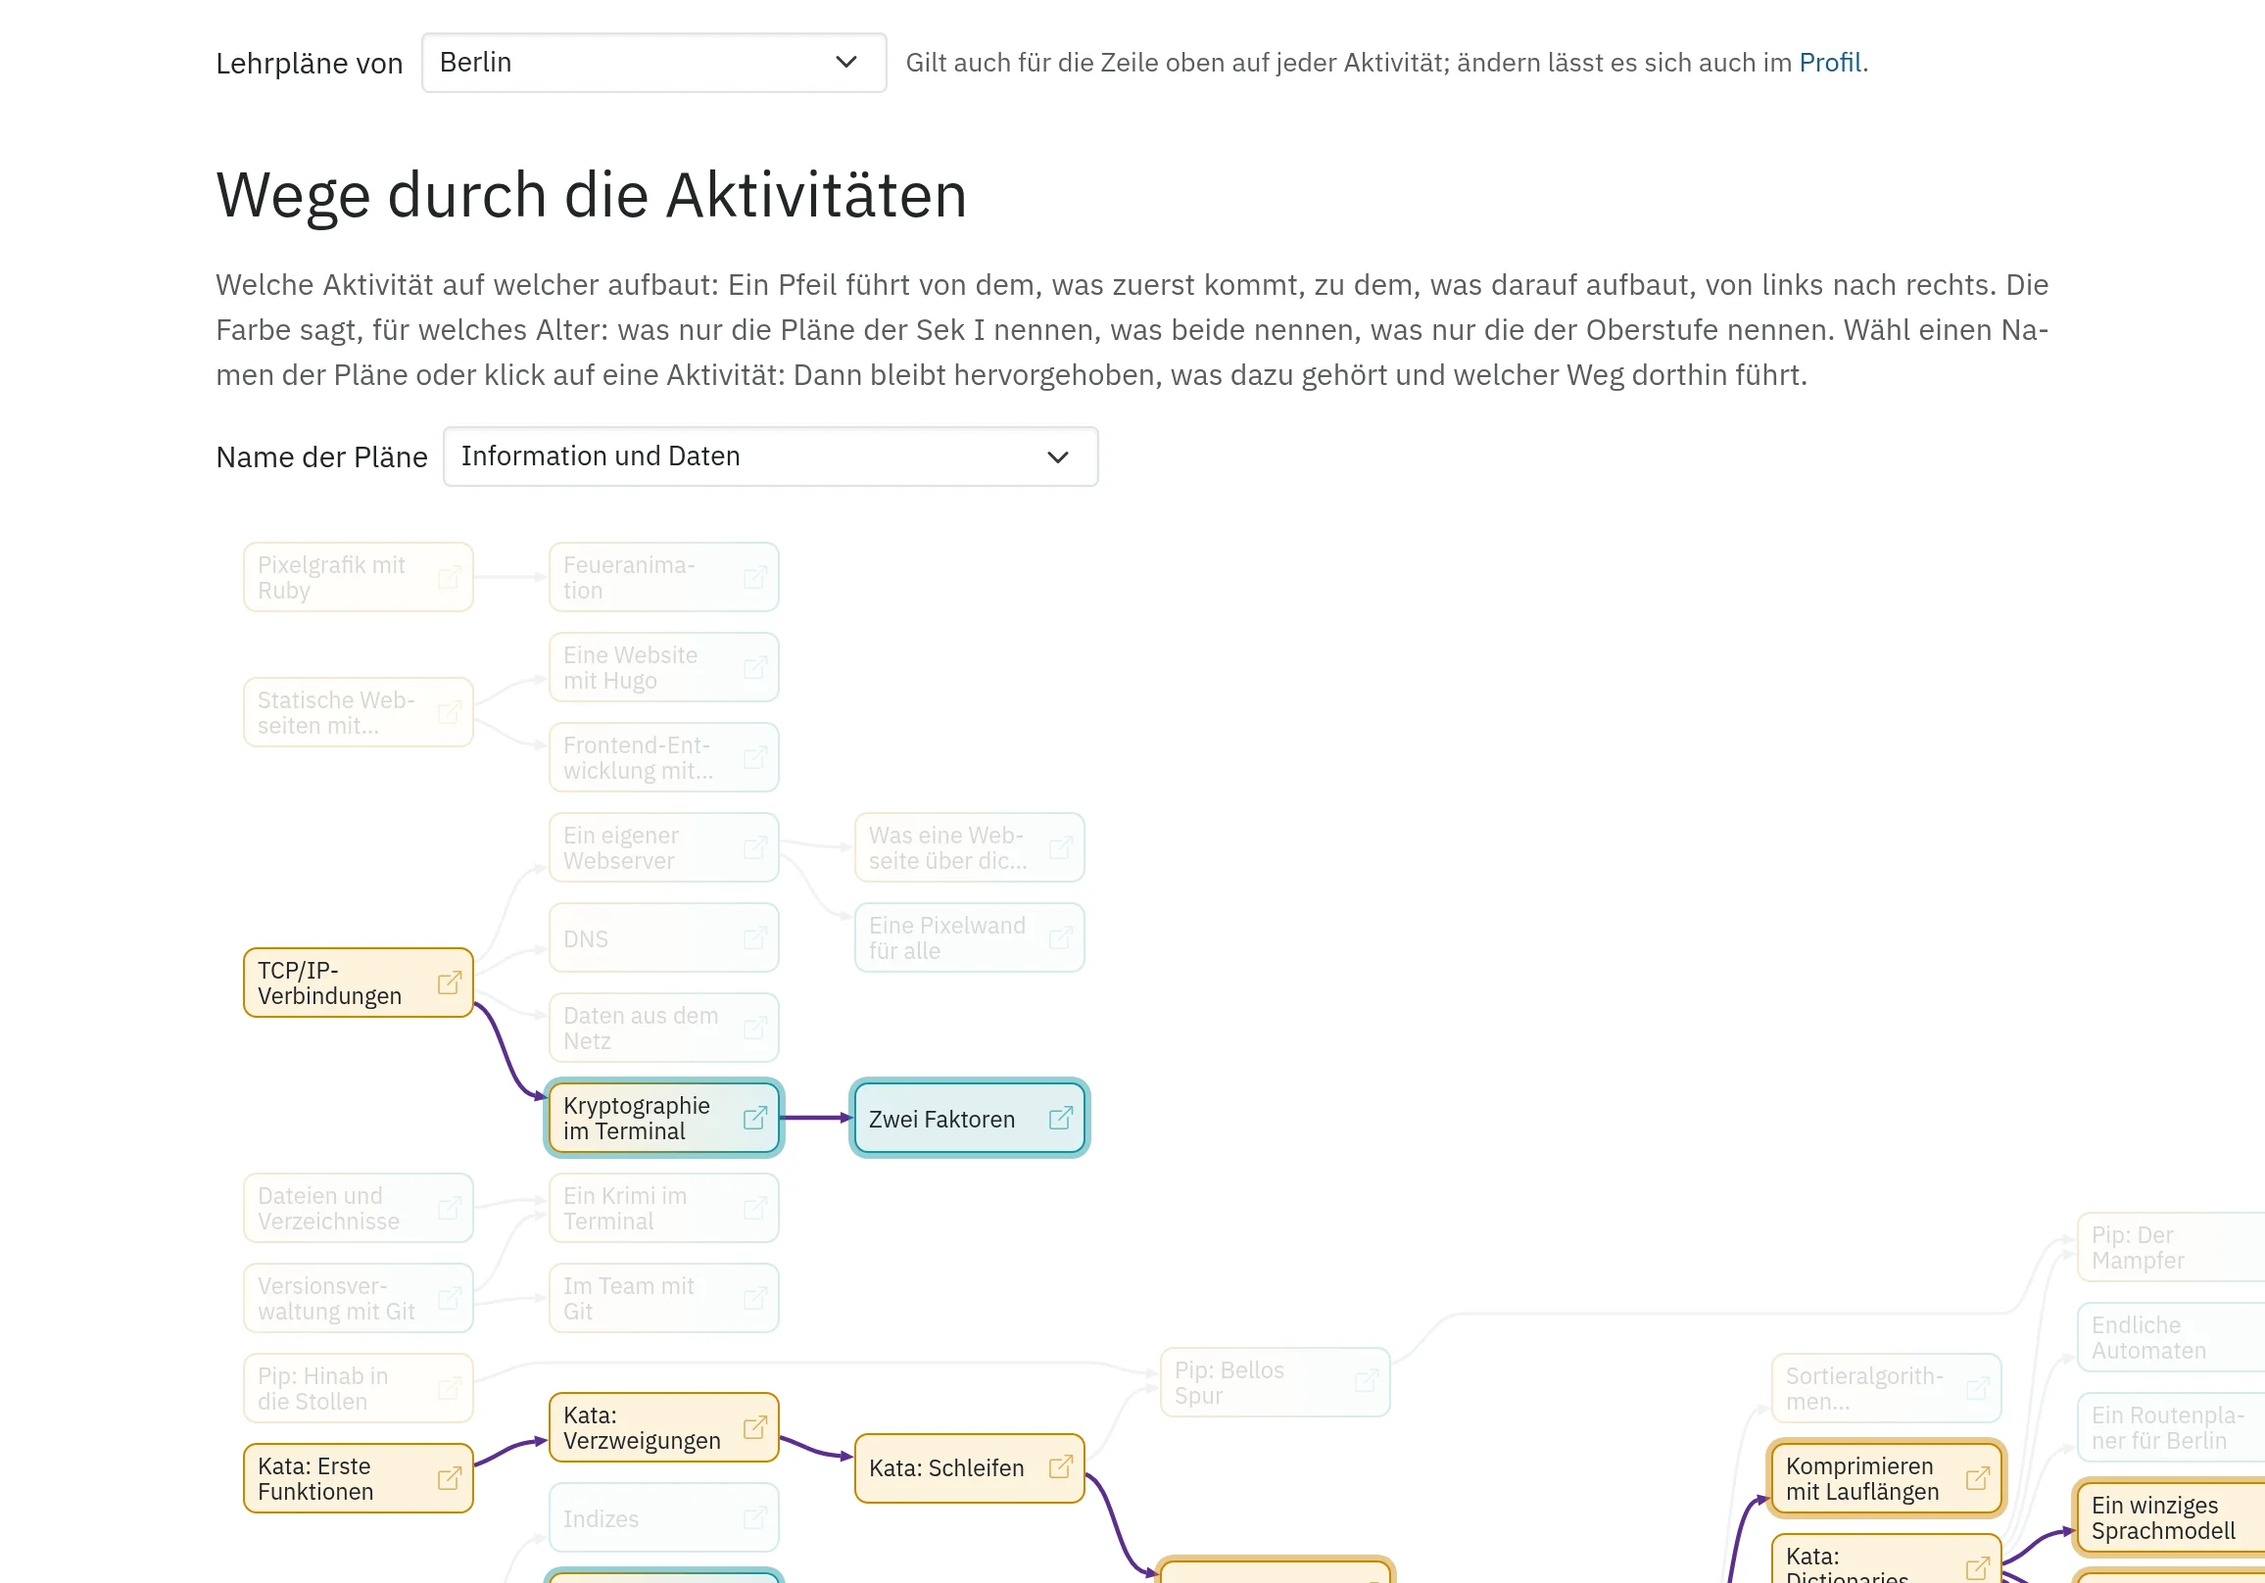
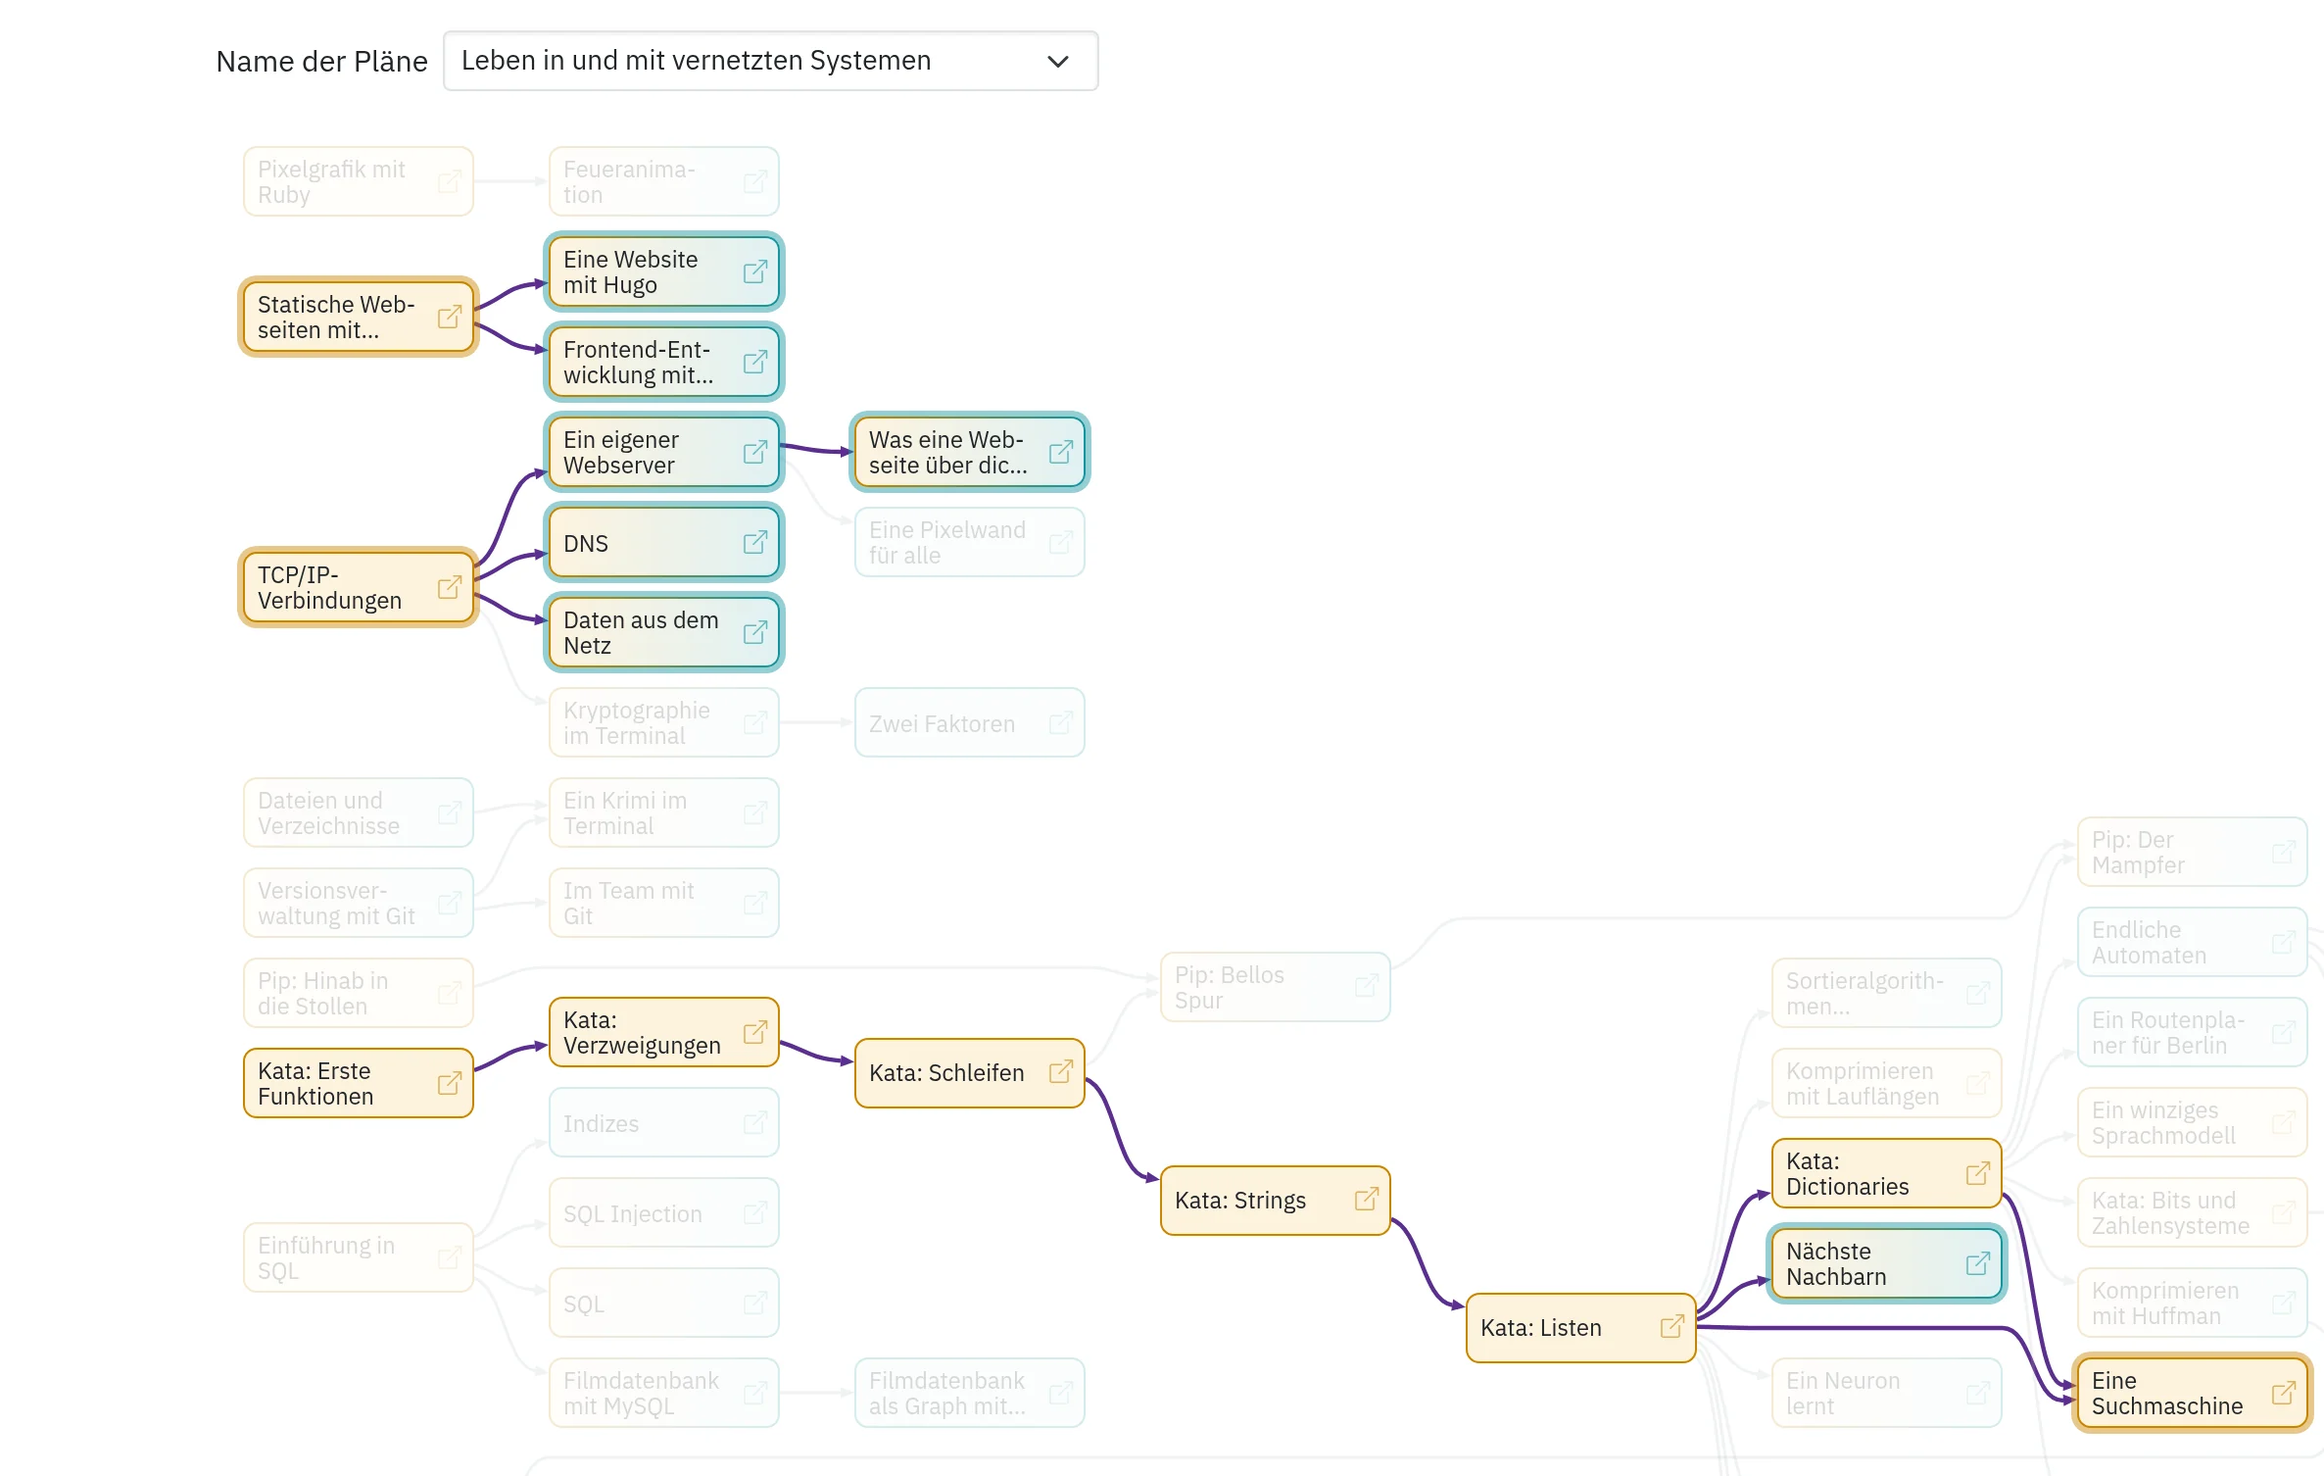
Lehrplan: no menu entry (linked from the class page and the teacher guide); »Im Bild oben zeigen« centres the highlighted boxes in the window and scrolls the picture sideways to them; the guide's picture shows »Leben in und mit vernetzten Systemen«, cropped to its boxes; the guide's and the tour's p

diff --git a/e2e/tests/teacher-guide.pictures.ts b/e2e/tests/teacher-guide.pictures.ts
@@ -177,12 +177,13 @@ async function shoot(page: Page, name: string, anchor: string | null, out: strin
 // A picture of a part of the page: the box around the elements (selectors),
 // with some room above and below, the whole page width of the content; for
 // what one sentence of the guide is about rather than a whole screen.
-async function shootBox(page: Page, name: string, selectors: string[], out: string, room = { top: 16, bottom: 16 }, maxHeight = 1100) {
-  const box = await page.evaluate(([sels, r, max]) => {
-    const rects = (sels as string[]).map((s) => {
-      const e = document.querySelector(s);
-      if (!e) throw new Error('missing ' + s);
-      return e.getBoundingClientRect();
+// every: each selector counts with all its matches, not only the first
+async function shootBox(page: Page, name: string, selectors: string[], out: string, room = { top: 16, bottom: 16 }, maxHeight = 1100, every = false) {
+  const box = await page.evaluate(([sels, r, max, all]) => {
+    const rects = (sels as string[]).flatMap((s) => {
+      const found = all ? Array.from(document.querySelectorAll(s)) : [document.querySelector(s)].filter(Boolean);
+      if (!found.length) throw new Error('missing ' + s);
+      return found.map((e) => (e as Element).getBoundingClientRect());
     });
     const main = (document.querySelector('.container, main') || document.body).getBoundingClientRect();
     const top = Math.min(...rects.map((b) => b.top)) + window.scrollY - (r as any).top;
@@ -190,7 +191,7 @@ async function shootBox(page: Page, name: string, selectors: string[], out: stri
     const left = Math.max(0, Math.min(main.left, ...rects.map((b) => b.left)) - 8);
     const right = Math.min(document.documentElement.clientWidth, Math.max(main.right, ...rects.map((b) => b.right)) + 8);
     return { x: left, y: Math.max(0, top), width: right - left, height: Math.min(bottom - top, max as number) };
-  }, [selectors, room, maxHeight] as const);
+  }, [selectors, room, maxHeight, every] as const);
   await page.waitForTimeout(300);
   const png = path.join(out, name + '.png');
   await page.screenshot({ path: png, fullPage: true, clip: box });
@@ -364,11 +365,13 @@ test('pictures for the teacher guide', async ({ freshWorkspace: workspace, brows
     // and a level with its plan as a PDF
     await teacher.goto('/lehrplan');
     const topic = teacher.locator('select.cg-topic');
-    const value = await topic.locator('option', { hasText: 'Information und Daten' }).first().getAttribute('value');
+    // a name whose activities stand together in the graph, so that the
+    // picture shows them, not a page of faded boxes
+    const value = await topic.locator('option', { hasText: 'Leben in und mit vernetzten Systemen' }).first().getAttribute('value');
     await topic.selectOption(value!);
     await teacher.waitForTimeout(600);
     await dress(teacher);
-    await shootBox(teacher, 'lehrplan', ['.lp-state', 'select.cg-topic'], out, { top: 16, bottom: 560 });
+    await shootBox(teacher, 'lehrplan', ['select.cg-topic', '.cg-node.cg-hit'], out, { top: 16, bottom: 24 }, 1100, true);
     await dress(teacher);
     await shootBox(teacher, 'lehrplan-pdf', ['h2#sek-i', 'h2#sek-i + p.lp-source'], out, { top: 12, bottom: 12 });
 

diff --git a/src/static/lehrplan.html b/src/static/lehrplan.html
@@ -273,10 +273,27 @@
             if (!event.target.closest('.cg-node')) { select.value = ''; show([], null); }
         });
         // from a name in the list below: up to the picture, the name chosen
+        // and its boxes in the middle of the window (below the bar at the
+        // top), the picture scrolled sideways to them if it is wider
+        function centreHits() {
+            const hits = nodes.filter(function (n) { return n.classList.contains('cg-hit'); });
+            if (!hits.length) { document.getElementById('wege').scrollIntoView({ behavior: 'smooth', block: 'start' }); return; }
+            const boxes = hits.map(function (n) { return n.getBoundingClientRect(); });
+            const top = Math.min.apply(null, boxes.map(function (b) { return b.top; }));
+            const bottom = Math.max.apply(null, boxes.map(function (b) { return b.bottom; }));
+            const left = Math.min.apply(null, boxes.map(function (b) { return b.left; }));
+            const right = Math.max.apply(null, boxes.map(function (b) { return b.right; }));
+            const bar = 80;
+            const room = window.innerHeight - bar;
+            const y = window.scrollY + (bottom - top > room - 40 ? top - bar - 20 : (top + bottom) / 2 - bar - room / 2);
+            window.scrollTo({ top: Math.max(0, y), behavior: 'smooth' });
+            const frame = graph.parentElement.getBoundingClientRect();
+            graph.parentElement.scrollTo({ left: graph.parentElement.scrollLeft + (left + right) / 2 - (frame.left + frame.right) / 2, behavior: 'smooth' });
+        }
         document.querySelectorAll('.lp-graph-show').forEach(function (button) {
             button.addEventListener('click', function () {
                 topic(button.dataset.topic);
-                document.getElementById('wege').scrollIntoView({ behavior: 'smooth', block: 'start' });
+                centreHits();
             });
         });
         // as wide as the window allows right of the text's left edge

diff --git a/src/static/_template.html b/src/static/_template.html
@@ -1157,8 +1157,6 @@ window.addEventListener('load', function() {
                 <a style='#{(@session_user.nil? || (!@session_user[:show_tic80])) ? 'display: none;' : ''}' href="/tic80/" data-menu-module='tic80' class="btn btn-menu" target="_blank"><svg class='bi bi-tic80' width='16' height='16' viewBox='0 0 16 16' fill='currentColor' aria-hidden='true'><path fill-rule='evenodd' d='M2 .5h11A1.5 1.5 0 0 1 14.5 2v9a1.5 1.5 0 0 1-1.5 1.5H2A1.5 1.5 0 0 1 .5 11V2A1.5 1.5 0 0 1 2 .5Zm0 1a.5.5 0 0 0-.5.5v1h12V2a.5.5 0 0 0-.5-.5H2Zm11.5 2.5h-12v7a.5.5 0 0 0 .5.5h11a.5.5 0 0 0 .5-.5V4Z'/><path d='M5 5.5h1V8H5zM9 5.5h1V8H9zM4.5 9h1v.5h4V9h1v1.5h-6z'/><path d='M3 12.5h2V15H3zM10 12.5h2V15h-2z'/><path d='M14.5 5H16v3h-1.5V7h.5V6h-.5z'/></svg>TIC-80</a>
                 <a href='/reference' class="btn btn-menu #{request.path.start_with?('/reference') ? 'active' : ''}"#{request.path.start_with?('/reference') ? " aria-current='page'" : ''}><i class='bi bi-book'></i>Handbuch</a>
                 <a href='/klasse' style='#{teacher_logged_in? || teacher_account_logged_in? ? '' : 'display: none;'}' class="btn btn-menu #{request.path == '/klasse' ? 'active' : ''}"#{request.path == '/klasse' ? " aria-current='page'" : ''}><i class='bi bi-people'></i>Klassen</a>
-                <!-- /lehrplan is for teachers (main.rb), like the curriculum lines -->
-                <a href='/lehrplan' style='#{teacher_logged_in? ? '' : 'display: none;'}' class="btn btn-menu #{request.path == '/lehrplan' ? 'active' : ''}"#{request.path == '/lehrplan' ? " aria-current='page'" : ''}><i class='bi bi-map'></i>Lehrplan</a>
                 <!-- Teachers manage their groups on the class page (tab »Gruppe«);
                      /gruppen is the administration's overview. -->
                 <div class='btn-group' style='#{admin_logged_in? ? '' : 'display: none;'}'>

diff --git a/src/static/klasse.html b/src/static/klasse.html
@@ -7,7 +7,7 @@
             <a class='class-help-link' href='/lehrplan'><i class='bi bi-mortarboard' aria-hidden='true'></i>Lehrplan</a>
         </span>
     </div>
-    <p class='class-board-intro'>Nur du und die anderen Lehrkräfte der Gruppe sehen diese Seite.</p>
+    <p class='class-board-intro'>Nur du und die anderen Lehrkräfte der Gruppe sehen diese Seite. Welche Aktivität zu welchem Thema deines Lehrplans passt, zeigt der <a href='/lehrplan'>Lehrplan</a>.</p>
     <div class='class-welcome' hidden>
         <i class='bi bi-signpost-split' aria-hidden='true'></i>
         <div><strong>Neu hier?</strong> Der <a href='/lehrmaterial-einstieg'>Einstieg für Lehrkräfte</a> zeigt in wenigen Minuten, wie sich deine Klasse anmeldet, was diese Seite zeigt und wie du alles mit deinem Testkonto ausprobierst. Welche Aktivität zu welchem Thema deines Lehrplans passt, zeigt der <a href='/lehrplan'>Lehrplan</a>.</div>

diff --git a/src/content/lehrmaterial/lehrmaterial-einstieg/lehrmaterial-einstieg.md b/src/content/lehrmaterial/lehrmaterial-einstieg/lehrmaterial-einstieg.md
@@ -18,7 +18,7 @@ Was du für die erste Stunde mit dem Workspace brauchst: wie deine Klasse sich a
 
 Jede Schülerin und jeder Schüler hat einen eigenen **Workspace**: Visual Studio Code im Browser, mit einem eigenen Ordner, der erhalten bleibt. Auf der Startseite stehen **Aktivitäten**, also Anleitungen zu einem Thema (eine Webseite bauen, eine interaktive Geschichte schreiben, eine Datenbank abfragen). In vielen Aktivitäten stehen **Aufgaben**, die der Workspace selbst prüft: Er sieht in den Dateien nach, führt eine Abfrage aus oder vergleicht eine Antwort. Im **Handbuch** schlagen die Lernenden nach, was sie in mehreren Aktivitäten brauchen.
 
-Du siehst dieselben Seiten wie deine Klasse, mit ein paar Zusätzen: den Menüpunkten **Klassen** (deine Gruppen, ihr Fortschritt und wer darin ist) und **Lehrplan** (welche Aktivität zu welchem Thema deines Lehrplans passt), auf manchen Aktivitäten dem Knopf **Notiz für Lehrkräfte** und unter den Schritten dem Knopf **Code bis hier** (mehr dazu unten).
+Du siehst dieselben Seiten wie deine Klasse, mit ein paar Zusätzen: dem Menüpunkt **Klassen** (deine Gruppen, ihr Fortschritt und wer darin ist; von dort führt ein Link zum **Lehrplan**, welche Aktivität zu welchem Thema deines Lehrplans passt), auf manchen Aktivitäten dem Knopf **Notiz für Lehrkräfte** und unter den Schritten dem Knopf **Code bis hier** (mehr dazu unten).
 
 ## Die erste Stunde: anmelden
 
@@ -137,19 +137,19 @@ Hier steht, was für die ganze Gruppe gilt; jede Änderung ist sofort gespeicher
 
 ## Eine Aktivität finden: der Lehrplan
 
-Unter **Lehrplan** stehen die Themen deines Rahmenlehrplans, für die Sekundarstufe I und für die Oberstufe, und unter jedem die Aktivitäten, die es behandeln. Neben jeder Stufe führen Links zum Lehrplan selbst, als PDF, und zur Seite des Landes. Oben wählst du dein Bundesland; ohne Wahl siehst du Berlin.
+Im [Lehrplan](/lehrplan), verlinkt oben auf der Klassenseite, stehen die Themen deines Rahmenlehrplans, für die Sekundarstufe I und für die Oberstufe, und unter jedem die Aktivitäten, die es behandeln. Neben jeder Stufe führen Links zum Lehrplan selbst, als PDF, und zur Seite des Landes. Oben wählst du dein Bundesland; ohne Wahl siehst du Berlin.
 
 <img class='full full-shadow shot' src='lehrplan-pdf.webp' alt='Die Überschrift Sekundarstufe I, darunter der Name des Rahmenlehrplans und die Links »Lehrplan als PDF« und »Seite des Landes«.'>
 
 Darüber zeigt ein Bild, was worauf aufbaut: Ein Pfeil führt von einer Aktivität zu denen, die auf ihr aufbauen. Die Farbe sagt, für wen eine Aktivität gedacht ist: gelb für die Sekundarstufe I, türkis für die Oberstufe, beides im Verlauf für Aktivitäten, die zu beiden passen. Wählst du über dem Bild unter **Name der Pläne** ein Thema, hebt es die Aktivitäten dazu hervor und den Weg dorthin:
 
-<img class='full full-shadow shot' src='lehrplan.webp' alt='Oben »Lehrpläne von Berlin«, darunter »Wege durch die Aktivitäten« mit dem Thema »Information und Daten« gewählt: Kästen für die Aktivitäten, durch Pfeile verbunden; die zum Thema und ihr Weg dorthin kräftig, die übrigen blass.'>
+<img class='full full-shadow shot' src='lehrplan.webp' alt='Über dem Bild der Wege ist »Leben in und mit vernetzten Systemen« gewählt. Hervorgehoben sind Statische Webseiten mit Hugo und der Frontend-Entwicklung, TCP/IP mit dem eigenen Webserver, DNS und Daten aus dem Netz, »Was eine Webseite über dich erfährt«, Nächste Nachbarn und die Suchmaschine, dazu der Weg der Katas dorthin; alles andere ist blass.'>
 
-Dieselbe Zeile siehst du oben auf jeder Aktivitätsseite: Die Namen der Themen darin führen an ihre Stelle unter **Lehrplan**.
+Dieselbe Zeile siehst du oben auf jeder Aktivitätsseite: Die Namen der Themen darin führen an ihre Stelle im Lehrplan.
 
 ## Die erste Doppelstunde
 
-1. **Vorher:** Such unter **Lehrplan** eine Aktivität zu deinem Thema aus. Leg die Gruppe an und trag die Adressen ein (Reiter **Lernende**). Probier die Aktivität mit deinem Testkonto aus (siehe unten).
+1. **Vorher:** Such im [Lehrplan](/lehrplan) eine Aktivität zu deinem Thema aus. Leg die Gruppe an und trag die Adressen ein (Reiter **Lernende**). Probier die Aktivität mit deinem Testkonto aus (siehe unten).
 2. **Anmelden:** Zeig **Anmelde-Codes zeigen** am Beamer; die Klasse meldet sich mit dem Anfang ihrer Adresse an und liest ihren Code dort ab.
 3. **Anheften:** Heft die Aktivität der Stunde im Reiter **Startseite** an. Sie steht dann bei allen ganz oben.
 4. **Treffpunkt:** Setz im Reiter **Fortschritt** einen Treffpunkt nach der Aufgabe, bis zu der alle vor dem ersten Gespräch kommen sollen.
